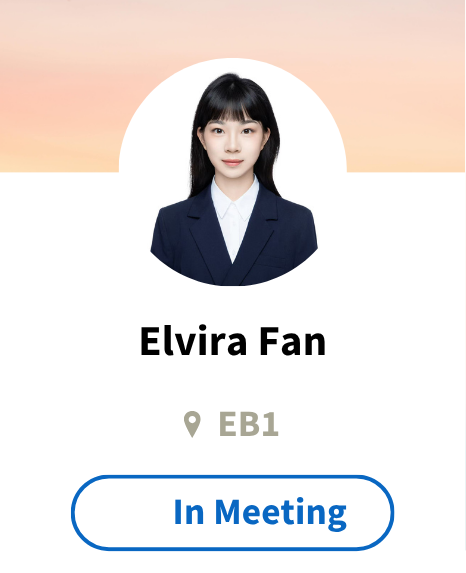
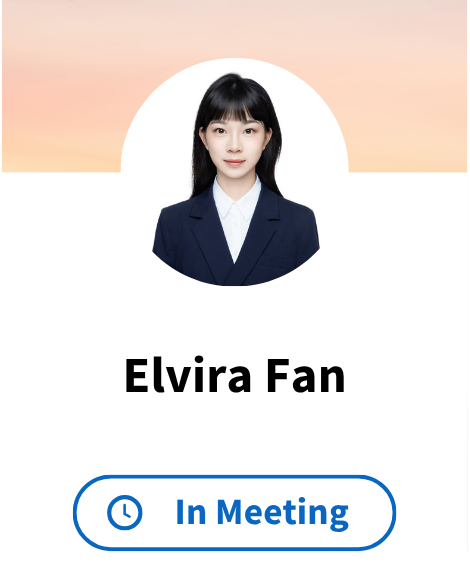
refined again

diff --git a/project1/nearby.html b/project1/nearby.html
@@ -20,59 +20,49 @@
             <img src="assets/me.png" alt="" class="me">
         </div>
     </div>
-    <div class="nearby-container">
-        <div class="nearby-left-bar">
-            <div>
-                <img src="assets/nearby-clock.png" alt="">
-            </div>
-            <div class="location">
-                <p class="title">Location</p>
-                <p class="small-text">NYU Shanghai</p>
-                <a
-                    href="https://www.google.com/maps/place/New+York+University+Shanghai/@31.225854,121.5315751,17z/data=!3m1!4b1!4m6!3m5!1s0x35b270cd9ae0a4b1:0xe4992fc2a6d3e22!8m2!3d31.225854!4d121.53415!16s%2Fm%2F0j9n5bd?entry=ttu&g_ep=EgoyMDI1MTAyMi4wIKXMDSoASAFQAw%3D%3D"><img
-                        src="assets/google-map.png" alt="" id="google-map-location"></a>
-            </div>
-        </div>
-        <div class="nearby-main-body">
-            <div class="nearby-people">
-                <img src="assets/nearby-david.png" alt="" class="orig">
-                <img src="assets/nearby-david-hover.png" alt="" class="alt">
-            </div>
-            <div class="nearby-people">
-                <img src="assets/nearby-tong.png" alt="" class="orig">
-                <img src="assets/nearby-tong-hover.png" alt="" class="alt">
-            </div>
-            <div class="nearby-people">
-                <img src="assets/nearby-messi.png" alt="" class="orig">
-                <img src="assets/nearby-messi-hover.png" alt="" class="alt">
-            </div>
-            <div class="nearby-people">
-                <img src="assets/nearby-tom.png" alt="" class="orig">
-                <img src="assets/nearby-tom-hover.png" alt="" class="alt">
-            </div>
-            <div class="nearby-people">
-                <img src="assets/nearby-alex.png" alt="" class="orig">
-                <img src="assets/nearby-alex-hover.png" alt="" class="alt">
-            </div>
-            <div class="nearby-people">
-                <img src="assets/nearby-nina.png" alt="" class="orig">
-                <img src="assets/nearby-nina-hover.png" alt="" class="alt">
-            </div>
-            <div class="nearby-people">
-                <img src="assets/nearby-elvira.png" alt="" class="orig">
-                <img src="assets/nearby-elvira-hover.jpg" alt="" class="alt">
-            </div>
-            <div class="nearby-people">
-                <img src="assets/nearby-zyton.png" alt="" class="orig">
-                <img src="assets/nearby-zyton-hover.jpg" alt="" class="alt">
-            </div>
-            <div class="nearby-people">
-                <img src="assets/nearby-yiyi.png" alt="" class="orig">
-                <img src="assets/nearby-yiyi-hover.jpg" alt="" class="alt">
-            </div>
-
-        </div>
+    <div class="nearby-right-bar">
+        <img src="assets/nearby-clock.png" alt="">
     </div>
+    <div class="nearby-main-body">
+        <div class="nearby-people" id="nearby-david">
+            <img src="assets/nearby-david.png" alt="" class="orig">
+            <img src="assets/nearby-david-hover.png" alt="" class="alt">
+        </div>
+        <div class="nearby-people" id="nearby-tong">
+            <img src="assets/nearby-tong.png" alt="" class="orig">
+            <img src="assets/nearby-tong-hover.png" alt="" class="alt">
+        </div>
+        <div class="nearby-people" id="nearby-messi">
+            <img src="assets/nearby-messi.png" alt="" class="orig">
+            <img src="assets/nearby-messi-hover.png" alt="" class="alt">
+        </div>
+        <div class="nearby-people" id="nearby-tom">
+            <img src="assets/nearby-tom.png" alt="" class="orig">
+            <img src="assets/nearby-tom-hover.png" alt="" class="alt">
+        </div>
+        <div class="nearby-people" id="nearby-alex">
+            <img src="assets/nearby-alex.png" alt="" class="orig">
+            <img src="assets/nearby-alex-hover.png" alt="" class="alt">
+        </div>
+        <div class="nearby-people" id="nearby-nina">
+            <img src="assets/nearby-nina.png" alt="" class="orig">
+            <img src="assets/nearby-nina-hover.png" alt="" class="alt">
+        </div>
+        <div class="nearby-people" id="nearby-elvira">
+            <img src="assets/nearby-elvira.png" alt="" class="orig">
+            <img src="assets/nearby-elvira-hover.jpg" alt="" class="alt">
+        </div>
+        <div class="nearby-people" id="nearby-zyton">
+            <img src="assets/nearby-zyton.png" alt="" class="orig">
+            <img src="assets/nearby-zyton-hover.jpg" alt="" class="alt">
+        </div>
+        <div class="nearby-people" id="nearby-yiyi">
+            <img src="assets/nearby-yiyi.png" alt="" class="orig">
+            <img src="assets/nearby-yiyi-hover.jpg" alt="" class="alt">
+        </div>
+
+    </div>
+
 </body>
 
 </html>

diff --git a/project1/style.css b/project1/style.css
@@ -7,7 +7,12 @@ body{
 }
 .nearby{
     background-color: #9ab3ec;
-    
+    /* background-image: url(assets/map-5f.jpg); */
+    background-image: url(assets/map.png);
+    background-repeat: no-repeat;
+    background-size: 100%;
+    position: sticky; 
+
 }
 p{
     margin: 0px;
@@ -82,9 +87,9 @@ hr{
 border-bottom-color: rgba(0,0,0,0.35);
 }
 
-.me:hover{
+/* .me:hover{
     mask-image: url(assets/nav-top-me.png);
-}
+} */
 /* left-bar*/
 /* in Homepage */
 .left-bar-profile{
@@ -115,36 +120,28 @@ border-bottom-color: rgba(0,0,0,0.35);
 
 /* left-bar*/
 /* in Nearby */
-.nearby-container{
+/* .nearby-container{
     display: flex;
-    flex-direction: row;
     align-items: flex-start;
     justify-content: center;
     gap: 50px;
     margin-top: 80px;
-}
-.nearby-left-bar{
+} */
+.nearby-right-bar{
     position: sticky;
-    top: 80px;
-    margin-right: 50px;
-     align-items:center;
+    top: 150px;
+    right: 20px;
 }
-.nearby-left-bar img{
-    width: 300px;
-}
-.location{
-    background-color: white;
-    width: 300px;
-    border-radius: 8px;
-    margin-top: 16px;
-    border: 1px solid rgba(0,0,0,0.15);
-}
-#google-map-location{
-    height: 200px;
-    width: 300px;
-    margin:0px;
-    margin-top: 10px;
-
+.nearby-right-bar img{ 
+    position: sticky;
+    top: 150px;
+    right: 20px;
+    display: flex;
+    width: 150px;
+    margin-left: 20px;
+    margin-top: 80px;
+    border-radius: 0.8rem;
+    border: 3px solid rgba(0,0,0,0.15);
 }
 .title{
     font-size: 24px;
@@ -157,20 +154,17 @@ border-bottom-color: rgba(0,0,0,0.35);
 /* nearby-main-body */
 .nearby-main-body{
     display: flex;
-    flex-wrap: wrap;
-    width: 600px;
 }
 .nearby-people img{
-    width: 230px;
-    height: 300px;
-    /* height: 370px; */
+    width: 100px;
+    height: 130px;
     margin: 10px;
     margin-top: 0px;
     border-radius: 0.8rem;
-    border: 1px solid rgba(0,0,0,0.15);
+    border: 3px solid rgba(61, 46, 46, 0.65);
 }
 .nearby-people .orig{
-    display: flexbox;
+    display: flex;
 }
 .nearby-people .alt{
     display: none;
@@ -181,7 +175,51 @@ border-bottom-color: rgba(0,0,0,0.35);
 .nearby-people:hover .orig{
     display: none;
 }
-
+#nearby-david{
+    position: absolute;
+    left: 40px;
+    top: 300px;
+}
+#nearby-tong{
+    position: absolute;
+    left: 300px;
+    top: 200px;
+}
+#nearby-messi{
+    position: absolute;
+    left: 1150px;
+    top: 500px;
+}
+#nearby-tom{
+    position: absolute;
+    left: 200px;
+    top: 700px;
+}
+#nearby-nina{
+    position: absolute;
+    left: 700px;
+    top: 500px;
+}
+#nearby-yiyi{
+    position: absolute;
+    left: 300px;
+    top: 1500px;
+}
+#nearby-alex{
+    position: absolute;
+    left: 1200px;
+    top: 1300px;
+}
+#nearby-elvira{
+    position: absolute;
+    left: 600px;
+    top: 1450px;
+}
+#nearby-zyton{
+    position: absolute;
+    left: 800px;
+    top: 1200px;
+}
 /* posts body */
 .container{
     background-color:#f4f2ee ;
@@ -194,7 +232,7 @@ border-bottom-color: rgba(0,0,0,0.35);
     margin-left: 40px; */
     margin-top: 80px;
     border-radius: 8px;
-    border: 1px solid rgba(0,0,0,0.15);
+    border: 1px solid rgba(0, 0, 0, 0.154);
 }
 .post-header{
     display:flex;
@@ -372,11 +410,13 @@ border-bottom-color: rgba(0,0,0,0.35);
 background-color: darkgreen;
 }
 .sticky:hover{
-    background-color: #0A66c2;
+    position: absolute;
+    top: 300px;
+    left:150px;
 }
-.sticky img{
+.sticky{
     position: sticky;
-    top: 80px;
+    top: 100px;
 }
 
 .show-all-text{
